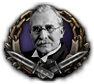
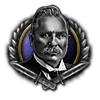
Update webpage (automatic)

diff --git a/index.html b/index.html
@@ -11297,7 +11297,7 @@
         </div>
       </div>
       <div id="eventsSection" class="docs-section">
-        <h6 class="docs-header">Events (2027)</h6>
+        <h6 class="docs-header">Events (2040)</h6>
         <div class="icon-container flex flex-wrap justify-left mt-3">
           <div data-clipboard-text="GFX_introduction_main" data-search-text="GFX_introduction_main" title="GFX_introduction_main" class="icon">
             <img src="gfx/event_pictures/Generic/GFX_introduction_main.png" alt="GFX_introduction_main">
@@ -14371,6 +14371,10 @@
             <img src="gfx/event_pictures/Europe/Greece/report_event_GRE_demonstration.png" alt="GFX_report_event_GRE_demonstration">
           </div>
         
+          <div data-clipboard-text="GFX_report_event_GRE_demonstration_2" data-search-text="GFX_report_event_GRE_demonstration_2" title="GFX_report_event_GRE_demonstration_2" class="icon">
+            <img src="gfx/event_pictures/Europe/Greece/report_event_GRE_demonstration_2.png" alt="GFX_report_event_GRE_demonstration_2">
+          </div>
+        
           <div data-clipboard-text="GFX_report_event_GRE_exchange" data-search-text="GFX_report_event_GRE_exchange" title="GFX_report_event_GRE_exchange" class="icon">
             <img src="gfx/event_pictures/Europe/Greece/report_event_GRE_exchange.png" alt="GFX_report_event_GRE_exchange">
           </div>
@@ -14404,7 +14408,55 @@
           </div>
         
           <div data-clipboard-text="GFX_report_event_GRE_zachariadis" data-search-text="GFX_report_event_GRE_zachariadis" title="GFX_report_event_GRE_zachariadis" class="icon">
-            <img src="gfx/event_pictures/Europe/Greece/report_event_GRE_zachariadis.png" alt="GFX_report_event_GRE_zachariadis">
+            <img src="gfx/event_pictures/Europe/Greece/report_GRE_military_1.png" alt="GFX_report_event_GRE_zachariadis">
+          </div>
+        
+          <div data-clipboard-text="GFX_report_event_GRE_michalakopoulos_1" data-search-text="GFX_report_event_GRE_michalakopoulos_1" title="GFX_report_event_GRE_michalakopoulos_1" class="icon">
+            <img src="gfx/event_pictures/Europe/Greece/report_event_GRE_michalakopoulos_1.png" alt="GFX_report_event_GRE_michalakopoulos_1">
+          </div>
+        
+          <div data-clipboard-text="GFX_report_event_GRE_michalakopoulos_2" data-search-text="GFX_report_event_GRE_michalakopoulos_2" title="GFX_report_event_GRE_michalakopoulos_2" class="icon">
+            <img src="gfx/event_pictures/Europe/Greece/report_event_GRE_michalakopoulos_2.png" alt="GFX_report_event_GRE_michalakopoulos_2">
+          </div>
+        
+          <div data-clipboard-text="GFX_report_event_GRE_michalakopoulos_3" data-search-text="GFX_report_event_GRE_michalakopoulos_3" title="GFX_report_event_GRE_michalakopoulos_3" class="icon">
+            <img src="gfx/event_pictures/Europe/Greece/report_event_GRE_michalakopoulos_3.png" alt="GFX_report_event_GRE_michalakopoulos_3">
+          </div>
+        
+          <div data-clipboard-text="GFX_report_event_GRE_papanastasiou_1" data-search-text="GFX_report_event_GRE_papanastasiou_1" title="GFX_report_event_GRE_papanastasiou_1" class="icon">
+            <img src="gfx/event_pictures/Europe/Greece/report_event_GRE_papanastasiou_1.png" alt="GFX_report_event_GRE_papanastasiou_1">
+          </div>
+        
+          <div data-clipboard-text="GFX_report_event_GRE_papanastasiou_2" data-search-text="GFX_report_event_GRE_papanastasiou_2" title="GFX_report_event_GRE_papanastasiou_2" class="icon">
+            <img src="gfx/event_pictures/Europe/Greece/report_event_GRE_papanastasiou_2.png" alt="GFX_report_event_GRE_papanastasiou_2">
+          </div>
+        
+          <div data-clipboard-text="GFX_report_event_GRE_plastiras_1" data-search-text="GFX_report_event_GRE_plastiras_1" title="GFX_report_event_GRE_plastiras_1" class="icon">
+            <img src="gfx/event_pictures/Europe/Greece/report_event_GRE_plastiras_1.png" alt="GFX_report_event_GRE_plastiras_1">
+          </div>
+        
+          <div data-clipboard-text="GFX_report_event_GRE_plastiras_2" data-search-text="GFX_report_event_GRE_plastiras_2" title="GFX_report_event_GRE_plastiras_2" class="icon">
+            <img src="gfx/event_pictures/Europe/Greece/report_event_GRE_plastiras_2.png" alt="GFX_report_event_GRE_plastiras_2">
+          </div>
+        
+          <div data-clipboard-text="GFX_report_event_GRE_sofoulis_1" data-search-text="GFX_report_event_GRE_sofoulis_1" title="GFX_report_event_GRE_sofoulis_1" class="icon">
+            <img src="gfx/event_pictures/Europe/Greece/report_event_GRE_sofoulis_1.png" alt="GFX_report_event_GRE_sofoulis_1">
+          </div>
+        
+          <div data-clipboard-text="GFX_report_event_GRE_sofoulis_2" data-search-text="GFX_report_event_GRE_sofoulis_2" title="GFX_report_event_GRE_sofoulis_2" class="icon">
+            <img src="gfx/event_pictures/Europe/Greece/report_event_GRE_sofoulis_2.png" alt="GFX_report_event_GRE_sofoulis_2">
+          </div>
+        
+          <div data-clipboard-text="GFX_report_event_GRE_trial" data-search-text="GFX_report_event_GRE_trial" title="GFX_report_event_GRE_trial" class="icon">
+            <img src="gfx/event_pictures/Europe/Greece/report_event_GRE_trial.png" alt="GFX_report_event_GRE_trial">
+          </div>
+        
+          <div data-clipboard-text="GFX_report_GRE_military_2" data-search-text="GFX_report_GRE_military_2" title="GFX_report_GRE_military_2" class="icon">
+            <img src="gfx/event_pictures/Europe/Greece/report_GRE_military_2.png" alt="GFX_report_GRE_military_2">
+          </div>
+        
+          <div data-clipboard-text="GFX_report_GRE_military_3" data-search-text="GFX_report_GRE_military_3" title="GFX_report_GRE_military_3" class="icon">
+            <img src="gfx/event_pictures/Europe/Greece/report_GRE_military_3.png" alt="GFX_report_GRE_military_3">
           </div>
         
           <div data-clipboard-text="GFX_report_event_GUA_ubico_gang" data-search-text="GFX_report_event_GUA_ubico_gang" title="GFX_report_event_GUA_ubico_gang" class="icon">
@@ -21622,7 +21674,7 @@
       </div>
     </div>
     <footer>
-      <p>Made with ❤ by <a href="https://github.com/Yard1">Yard1</a> with help from <a href="http://getskeleton.com/">Skeleton CSS</a>, <a href="https://feathericons.com/">Feather</a>, <a href="https://clipboardjs.com/">ClipboardJS</a> and <a href="https://www.w3schools.com/">W3Schools</a>.<br \>Last updated: 2022-12-29 14:38:25.289308 UTC</p>
+      <p>Made with ❤ by <a href="https://github.com/Yard1">Yard1</a> with help from <a href="http://getskeleton.com/">Skeleton CSS</a>, <a href="https://feathericons.com/">Feather</a>, <a href="https://clipboardjs.com/">ClipboardJS</a> and <a href="https://www.w3schools.com/">W3Schools</a>.<br \>Last updated: 2022-12-29 23:15:09.041006 UTC</p>
     </footer>
   </div>
 </body>
